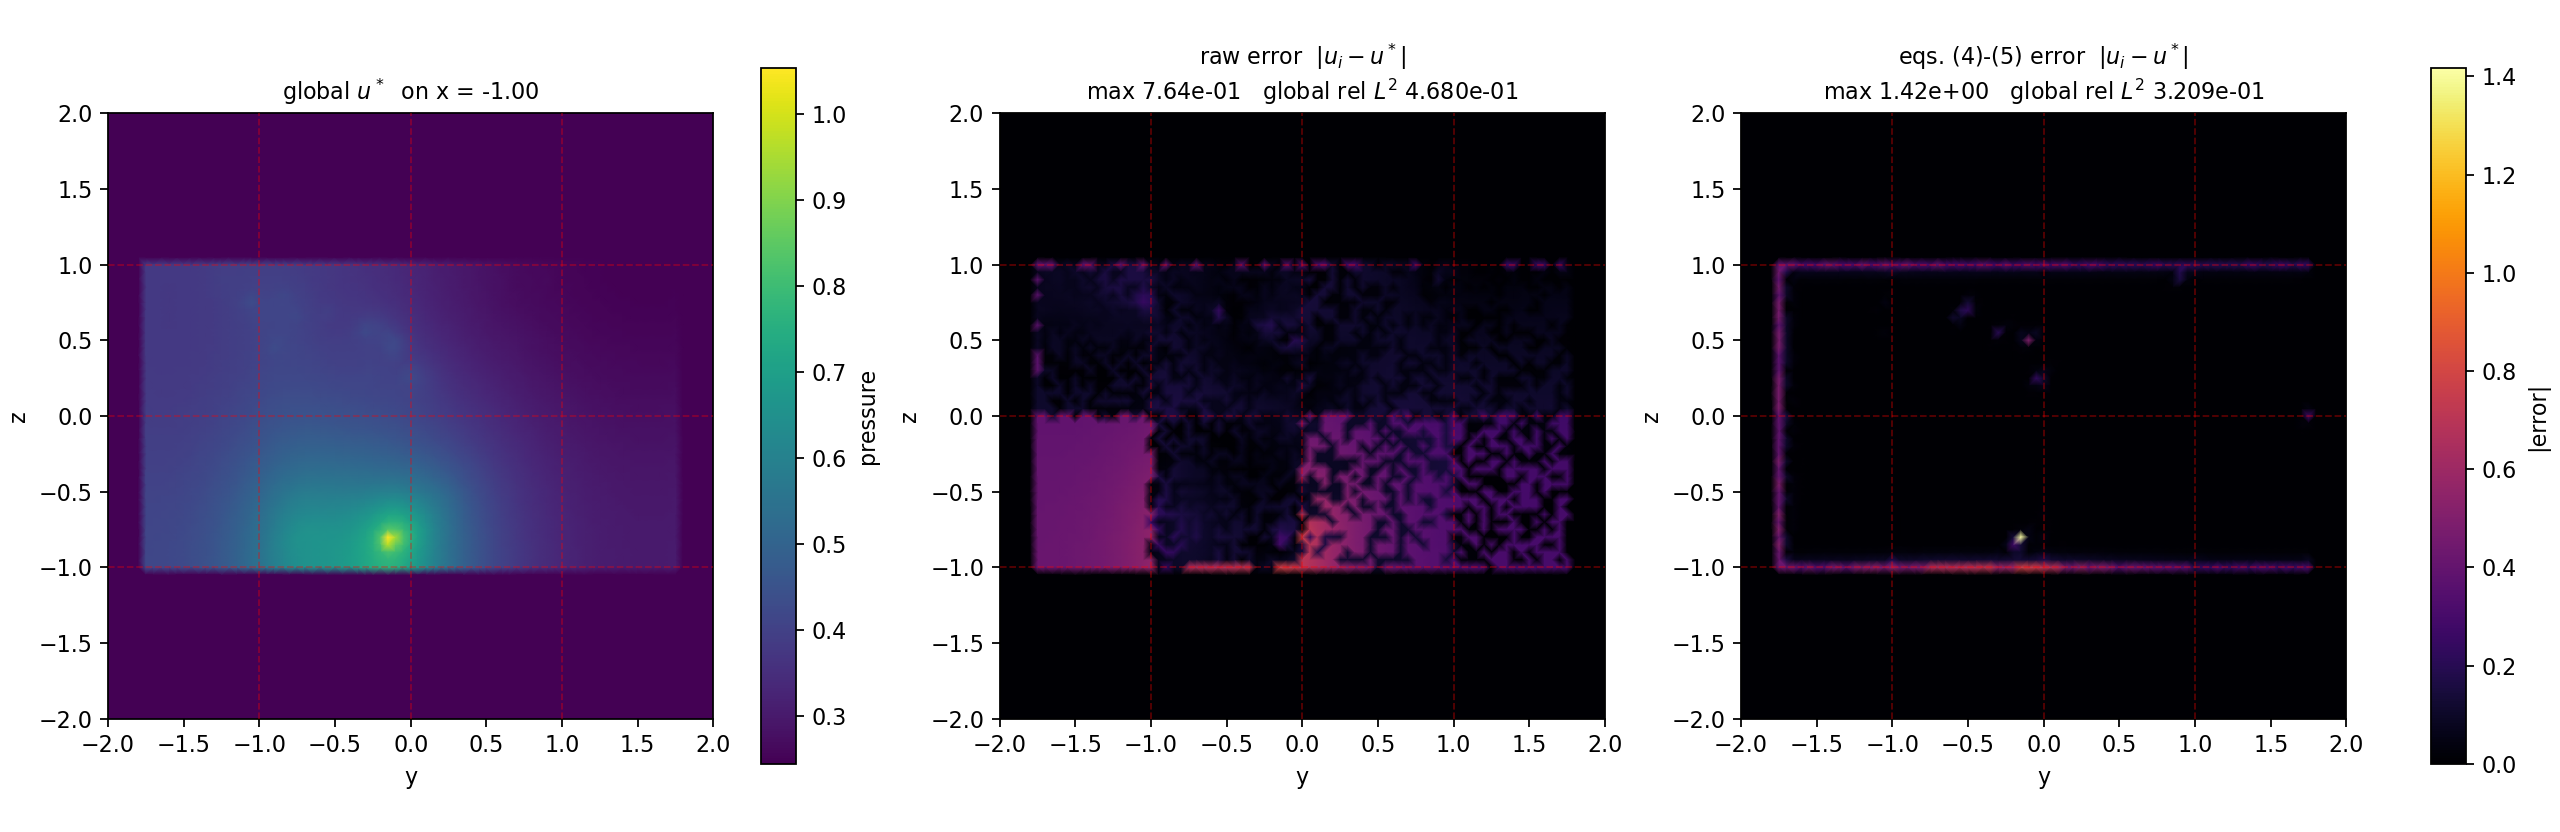
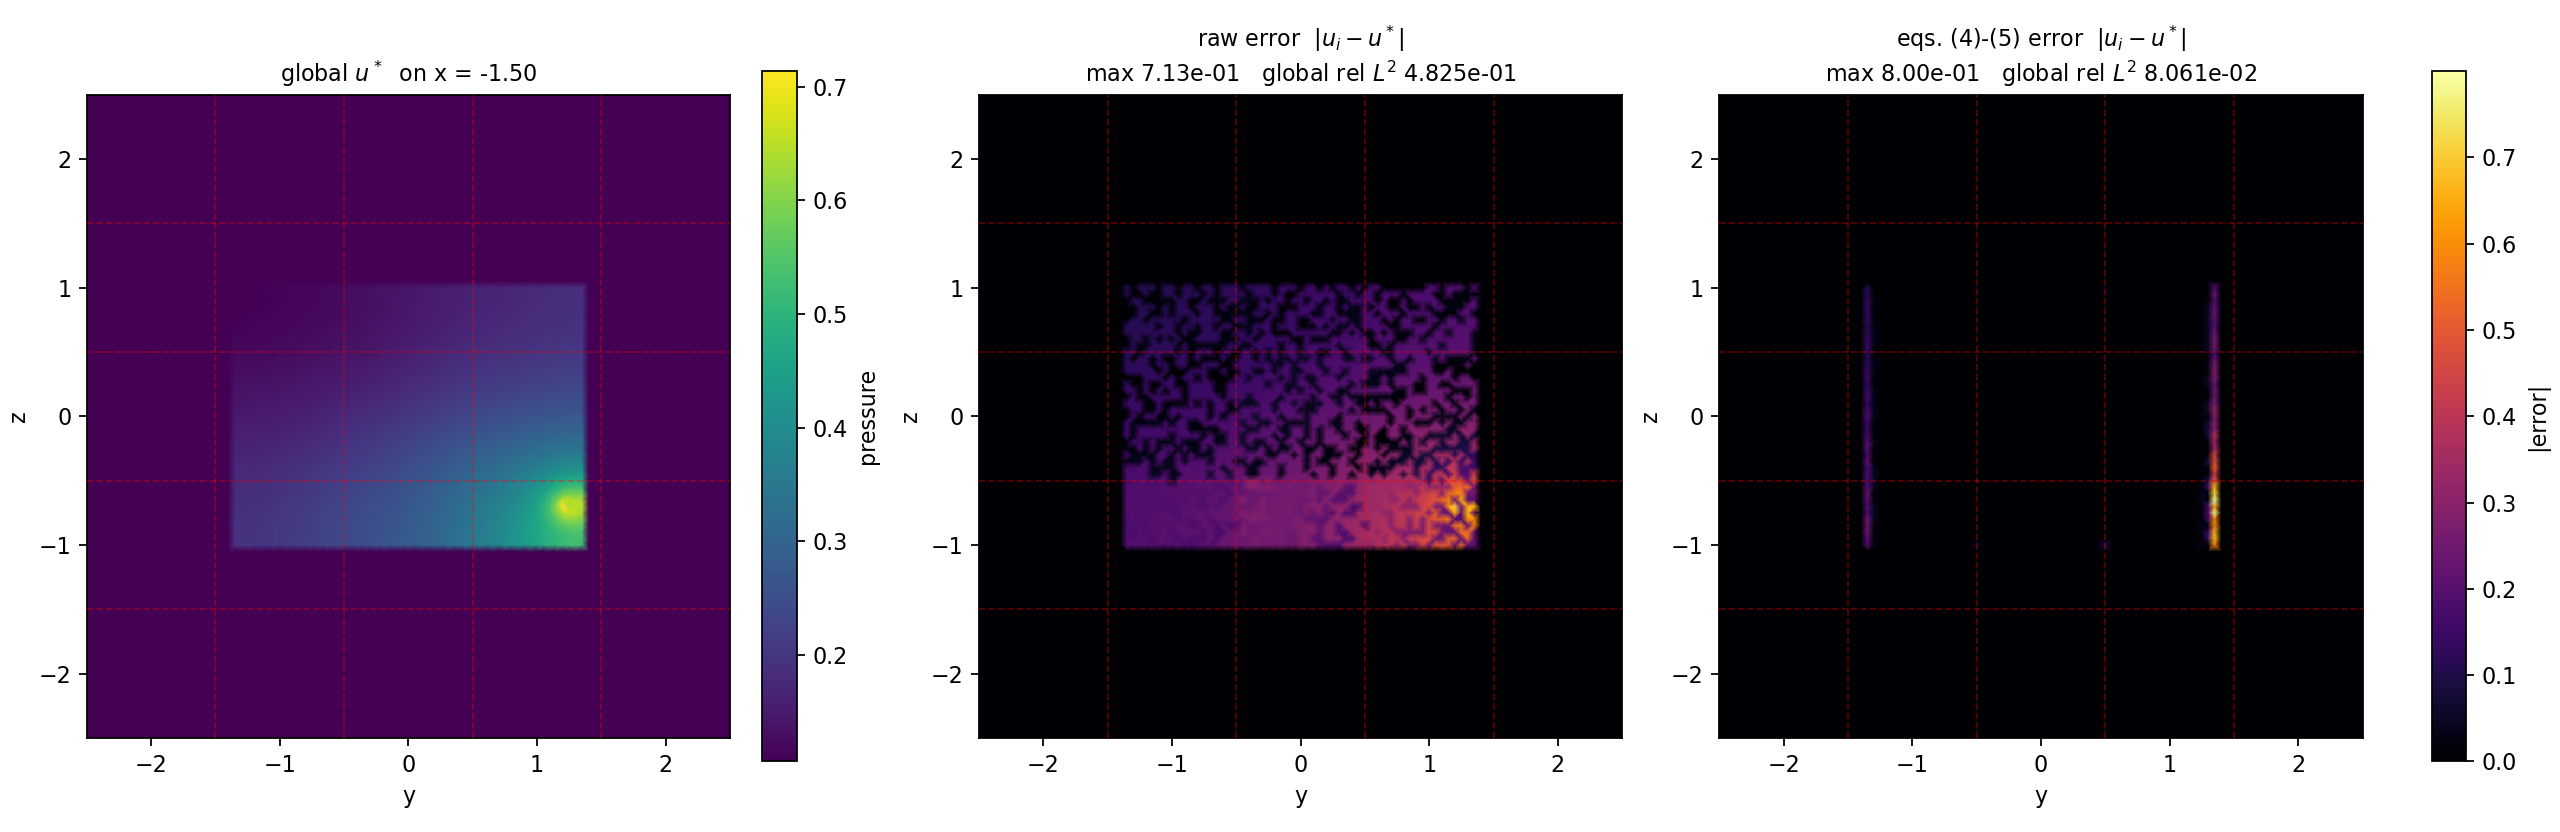
Now with subdomain L = 1mm runds
=> we add an epsilon on the construction of the background cube, so the shape could never be on the same wall as the true domain

diff --git a/Solver_full_domain.py b/Solver_full_domain.py
@@ -120,6 +120,11 @@ class Solver3D1D:
     cell markers, or it can be inferred from a Boundary object.
     """
 
+    # Clearance between the geometry and the faces of the background box. A
+    # bbox hugs the geometry exactly, which puts the outer Dirichlet boundary
+    # on the domain surface itself; this pads it away on every face.
+    BBOX_EPS = 0.5
+
     def __init__(
         self,
         path_to_1D_mesh: str,
@@ -280,8 +285,23 @@ class Solver3D1D:
                 self.augment = True
                 bbox = self.boundary._bbox
                 (xmin, xmax), (ymin, ymax), (zmin, zmax) = bbox
-                self.meshV = BoxMesh(Point(xmin, ymin, zmin), Point(xmax, ymax, zmax), self.n, self.n, self.n)
+                print("Here")
+                # The bbox touches the geometry: a sphere of radius 2 gives a
+                # box whose faces sit exactly on +-2, so the outer boundary and
+                # the domain surface coincide. Pad every face by BBOX_EPS so
+                # there is always a layer of exterior cells between the two.
+                self.meshV = BoxMesh(
+                    Point(xmin - self.BBOX_EPS, ymin - self.BBOX_EPS, zmin - self.BBOX_EPS),
+                    Point(xmax + self.BBOX_EPS, ymax + self.BBOX_EPS, zmax + self.BBOX_EPS),
+                    self.n, self.n, self.n,
+                )
         else:
+            # A supplied mesh is NOT padded here. full_domain_markers is built
+            # against this exact mesh object by the callers, and self.n is not
+            # its resolution (test_robin_minimal passes num_cells), so
+            # rebuilding it would invalidate the markers and mis-size the box.
+            # Callers that need the clearance apply it when they build the
+            # mesh -- see cylinder_background_mesh / enclosing_cube.
             self.meshV = self.full_domain_mesh
             self.augment = True
 

diff --git a/Decompose_Domain_Analytic_cylinder.py b/Decompose_Domain_Analytic_cylinder.py
@@ -132,8 +132,14 @@ def cylinder_background_mesh(radius, height, n, axis="z", center=(0.0, 0.0, 0.0)
     boundary object and the shared solver untouched.
     """
     from dolfin import BoxMesh, Point
+    from Solver_full_domain import Solver3D1D
 
+    # The cube touches the cylinder wall at +-radius, putting the outer
+    # Dirichlet boundary on the domain surface. Pad it by the same clearance
+    # the solver applies to a bbox it meshes itself, so the two paths agree.
+    eps = Solver3D1D.BBOX_EPS
     n_min, n_max = enclosing_cube(radius, height, axis, center)
+    n_min, n_max = n_min - eps, n_max + eps
     return BoxMesh(
         Point(n_min, n_min, n_min), Point(n_max, n_max, n_max), n, n, n
     )
